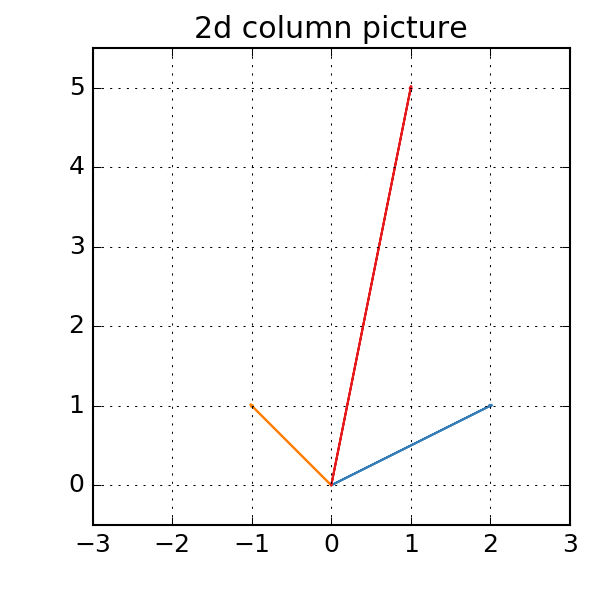
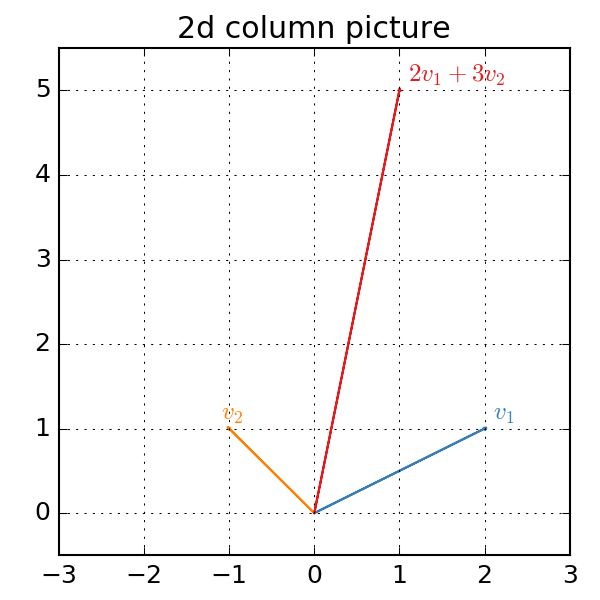
added labels to column view

diff --git a/2016/10/22/linear-equations-in-2d.html b/2016/10/22/linear-equations-in-2d.html
@@ -138,7 +138,7 @@ x + y &amp; = 5
 <p>A different way to think about this problem is to view the operation <span class="katex"><span class="katex-mathml"><math><semantics><mrow><mi>A</mi><mi>v</mi></mrow><annotation encoding="application/x-tex"> Av </annotation></semantics></math></span><span class="katex-html" aria-hidden="true"><span class="strut" style="height:0.68333em;"></span><span class="strut bottom" style="height:0.68333em;vertical-align:0em;"></span><span class="base textstyle uncramped"><span class="mord mathit">A</span><span class="mord mathit" style="margin-right:0.03588em;">v</span></span></span></span> as taking a linear combination of the columns of <span class="katex"><span class="katex-mathml"><math><semantics><mrow><mi>A</mi></mrow><annotation encoding="application/x-tex"> A </annotation></semantics></math></span><span class="katex-html" aria-hidden="true"><span class="strut" style="height:0.68333em;"></span><span class="strut bottom" style="height:0.68333em;vertical-align:0em;"></span><span class="base textstyle uncramped"><span class="mord mathit">A</span></span></span></span> and ask what is is the correct linear combination that gives us <span class="katex"><span class="katex-mathml"><math><semantics><mrow><mi>b</mi></mrow><annotation encoding="application/x-tex"> b </annotation></semantics></math></span><span class="katex-html" aria-hidden="true"><span class="strut" style="height:0.69444em;"></span><span class="strut bottom" style="height:0.69444em;vertical-align:0em;"></span><span class="base textstyle uncramped"><span class="mord mathit">b</span></span></span></span>. In other words, for what values of <span class="katex"><span class="katex-mathml"><math><semantics><mrow><mi>x</mi></mrow><annotation encoding="application/x-tex"> x </annotation></semantics></math></span><span class="katex-html" aria-hidden="true"><span class="strut" style="height:0.43056em;"></span><span class="strut bottom" style="height:0.43056em;vertical-align:0em;"></span><span class="base textstyle uncramped"><span class="mord mathit">x</span></span></span></span> and <span class="katex"><span class="katex-mathml"><math><semantics><mrow><mi>y</mi></mrow><annotation encoding="application/x-tex"> y </annotation></semantics></math></span><span class="katex-html" aria-hidden="true"><span class="strut" style="height:0.43056em;"></span><span class="strut bottom" style="height:0.625em;vertical-align:-0.19444em;"></span><span class="base textstyle uncramped"><span class="mord mathit" style="margin-right:0.03588em;">y</span></span></span></span> do we get:
 <span class="katex-display"><span class="katex"><span class="katex-mathml"><math><semantics><mrow><mi>x</mi><mrow><mo fence="true">(</mo><mtable><mtr><mtd><mrow><mn>2</mn></mrow></mtd></mtr><mtr><mtd><mrow><mn>1</mn></mrow></mtd></mtr></mtable><mo fence="true">)</mo></mrow><mo>+</mo><mi>y</mi><mrow><mo fence="true">(</mo><mtable><mtr><mtd><mrow><mo>−</mo><mn>1</mn></mrow></mtd></mtr><mtr><mtd><mrow><mn>1</mn></mrow></mtd></mtr></mtable><mo fence="true">)</mo></mrow><mo>=</mo><mrow><mo fence="true">(</mo><mtable><mtr><mtd><mrow><mn>1</mn></mrow></mtd></mtr><mtr><mtd><mrow><mn>5</mn></mrow></mtd></mtr></mtable><mo fence="true">)</mo></mrow></mrow><annotation encoding="application/x-tex"> x \begin{pmatrix} 2 \\ 1 \end{pmatrix} + y \begin{pmatrix} -1 \\ 1 \end{pmatrix} = \begin{pmatrix} 1 \\ 5 \end{pmatrix} </annotation></semantics></math></span><span class="katex-html" aria-hidden="true"><span class="strut" style="height:1.45em;"></span><span class="strut bottom" style="height:2.40003em;vertical-align:-0.95003em;"></span><span class="base displaystyle textstyle uncramped"><span class="mord mathit">x</span><span class="minner displaystyle textstyle uncramped"><span class="style-wrap reset-textstyle textstyle uncramped" style="top:0em;"><span class="delimsizing size3">(</span></span><span class="mord"><span class="mtable"><span class="col-align-c"><span class="vlist"><span style="top:-0.6099999999999999em;"><span class="fontsize-ensurer reset-size5 size5"><span style="font-size:0em;"></span></span><span class="mord displaystyle textstyle uncramped"><span class="mord mathrm">2</span></span></span><span style="top:0.5900000000000003em;"><span class="fontsize-ensurer reset-size5 size5"><span style="font-size:0em;"></span></span><span class="mord displaystyle textstyle uncramped"><span class="mord mathrm">1</span></span></span><span class="baseline-fix"><span class="fontsize-ensurer reset-size5 size5"><span style="font-size:0em;"></span></span></span></span></span></span></span><span class="style-wrap reset-textstyle textstyle uncramped" style="top:0em;"><span class="delimsizing size3">)</span></span></span><span class="mbin">+</span><span class="mord mathit" style="margin-right:0.03588em;">y</span><span class="minner displaystyle textstyle uncramped"><span class="style-wrap reset-textstyle textstyle uncramped" style="top:0em;"><span class="delimsizing size3">(</span></span><span class="mord"><span class="mtable"><span class="col-align-c"><span class="vlist"><span style="top:-0.6099999999999999em;"><span class="fontsize-ensurer reset-size5 size5"><span style="font-size:0em;"></span></span><span class="mord displaystyle textstyle uncramped"><span class="mord">−</span><span class="mord mathrm">1</span></span></span><span style="top:0.5900000000000003em;"><span class="fontsize-ensurer reset-size5 size5"><span style="font-size:0em;"></span></span><span class="mord displaystyle textstyle uncramped"><span class="mord mathrm">1</span></span></span><span class="baseline-fix"><span class="fontsize-ensurer reset-size5 size5"><span style="font-size:0em;"></span></span></span></span></span></span></span><span class="style-wrap reset-textstyle textstyle uncramped" style="top:0em;"><span class="delimsizing size3">)</span></span></span><span class="mrel">=</span><span class="minner displaystyle textstyle uncramped"><span class="style-wrap reset-textstyle textstyle uncramped" style="top:0em;"><span class="delimsizing size3">(</span></span><span class="mord"><span class="mtable"><span class="col-align-c"><span class="vlist"><span style="top:-0.6099999999999999em;"><span class="fontsize-ensurer reset-size5 size5"><span style="font-size:0em;"></span></span><span class="mord displaystyle textstyle uncramped"><span class="mord mathrm">1</span></span></span><span style="top:0.5900000000000003em;"><span class="fontsize-ensurer reset-size5 size5"><span style="font-size:0em;"></span></span><span class="mord displaystyle textstyle uncramped"><span class="mord mathrm">5</span></span></span><span class="baseline-fix"><span class="fontsize-ensurer reset-size5 size5"><span style="font-size:0em;"></span></span></span></span></span></span></span><span class="style-wrap reset-textstyle textstyle uncramped" style="top:0em;"><span class="delimsizing size3">)</span></span></span></span></span></span></span></p>
 
-<p>The next code block plots the two column vectors and the correct linear combination as shown in the following plot:</p>
+<p>The next code block plots the two column vectors and the correct linear combination:</p>
 
 <figure class="highlight"><pre><code class="language-python" data-lang="python"><span class="c"># Create vectors and the correct linear combination</span>
 <span class="n">v1</span> <span class="o">=</span> <span class="n">np</span><span class="o">.</span><span class="n">array</span><span class="p">([</span><span class="mi">2</span><span class="p">,</span> <span class="mi">1</span><span class="p">])</span>
@@ -149,13 +149,14 @@ x + y &amp; = 5
 <span class="n">plt</span><span class="o">.</span><span class="n">arrow</span><span class="p">(</span><span class="mi">0</span><span class="p">,</span> <span class="mi">0</span><span class="p">,</span> <span class="n">v1</span><span class="p">[</span><span class="mi">0</span><span class="p">],</span> <span class="n">v1</span><span class="p">[</span><span class="mi">1</span><span class="p">],</span> <span class="n">color</span><span class="o">=</span><span class="s">"#377eb8"</span><span class="p">)</span>
 <span class="n">plt</span><span class="o">.</span><span class="n">arrow</span><span class="p">(</span><span class="mi">0</span><span class="p">,</span> <span class="mi">0</span><span class="p">,</span> <span class="n">v2</span><span class="p">[</span><span class="mi">0</span><span class="p">],</span> <span class="n">v2</span><span class="p">[</span><span class="mi">1</span><span class="p">],</span> <span class="n">color</span><span class="o">=</span><span class="s">"#ff7f00"</span><span class="p">)</span>
 <span class="n">plt</span><span class="o">.</span><span class="n">arrow</span><span class="p">(</span><span class="mi">0</span><span class="p">,</span> <span class="mi">0</span><span class="p">,</span> <span class="n">lc</span><span class="p">[</span><span class="mi">0</span><span class="p">],</span> <span class="n">lc</span><span class="p">[</span><span class="mi">1</span><span class="p">],</span> <span class="n">color</span><span class="o">=</span><span class="s">"#e41a1c"</span><span class="p">)</span>
-<span class="c"># add title, gridlines, etc.</span>
+<span class="c"># add title labels, etc.</span>
 <span class="n">plt</span><span class="o">.</span><span class="n">title</span><span class="p">(</span><span class="s">"2d column picture"</span><span class="p">)</span>
+<span class="n">plt</span><span class="o">.</span><span class="n">text</span><span class="p">(</span><span class="mf">2.1</span><span class="p">,</span> <span class="mf">1.1</span><span class="p">,</span> <span class="s">r"$v_1$"</span><span class="p">,</span> <span class="n">color</span><span class="o">=</span><span class="s">"#377eb8"</span><span class="p">)</span>
+<span class="n">plt</span><span class="o">.</span><span class="n">text</span><span class="p">(</span><span class="o">-</span><span class="mf">1.1</span><span class="p">,</span> <span class="mf">1.1</span><span class="p">,</span> <span class="s">r"$v_2$"</span><span class="p">,</span> <span class="n">color</span><span class="o">=</span><span class="s">"#ff7f00"</span><span class="p">)</span>
+<span class="n">plt</span><span class="o">.</span><span class="n">text</span><span class="p">(</span><span class="mf">1.1</span><span class="p">,</span> <span class="mf">5.1</span><span class="p">,</span> <span class="s">r"$2 v_1 + 3 v_2$"</span><span class="p">,</span> <span class="n">color</span><span class="o">=</span><span class="s">"#e41a1c"</span><span class="p">)</span>
 <span class="n">plt</span><span class="o">.</span><span class="n">xlim</span><span class="p">((</span><span class="o">-</span><span class="mi">3</span><span class="p">,</span> <span class="mi">3</span><span class="p">))</span>
 <span class="n">plt</span><span class="o">.</span><span class="n">ylim</span><span class="p">((</span><span class="o">-</span><span class="mf">0.5</span><span class="p">,</span> <span class="mf">5.5</span><span class="p">))</span>
 <span class="n">plt</span><span class="o">.</span><span class="n">grid</span><span class="p">(</span><span class="bp">True</span><span class="p">)</span></code></pre></figure>
-
-<p>which generates</p>
 
 <p><img src="http://localhost:4000/linear-algebra-with-python/figures/2d-column-picture.png" alt="2d column picture" /></p>
 
